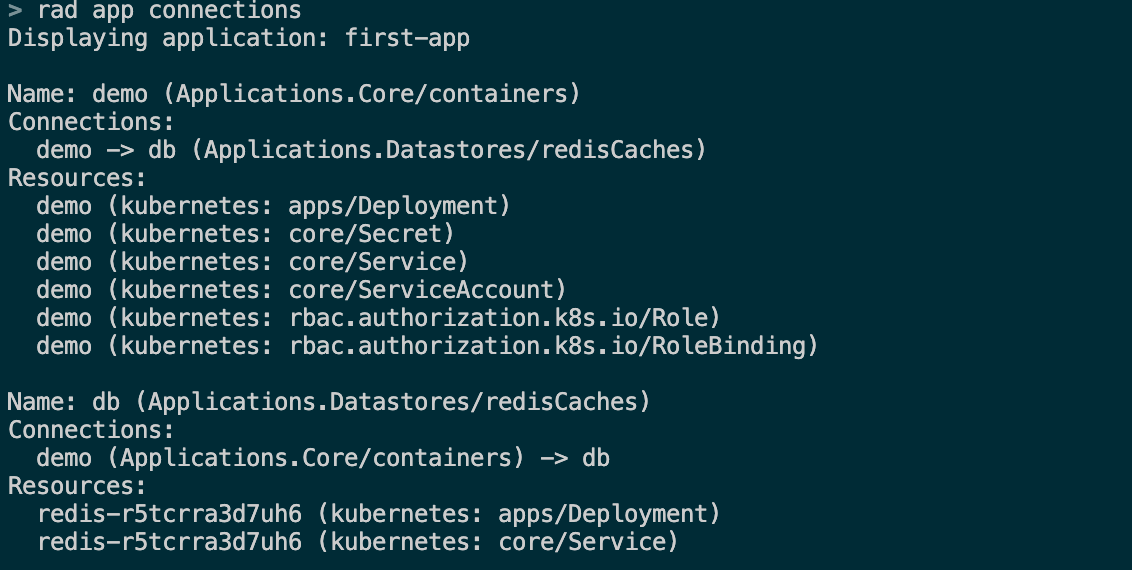
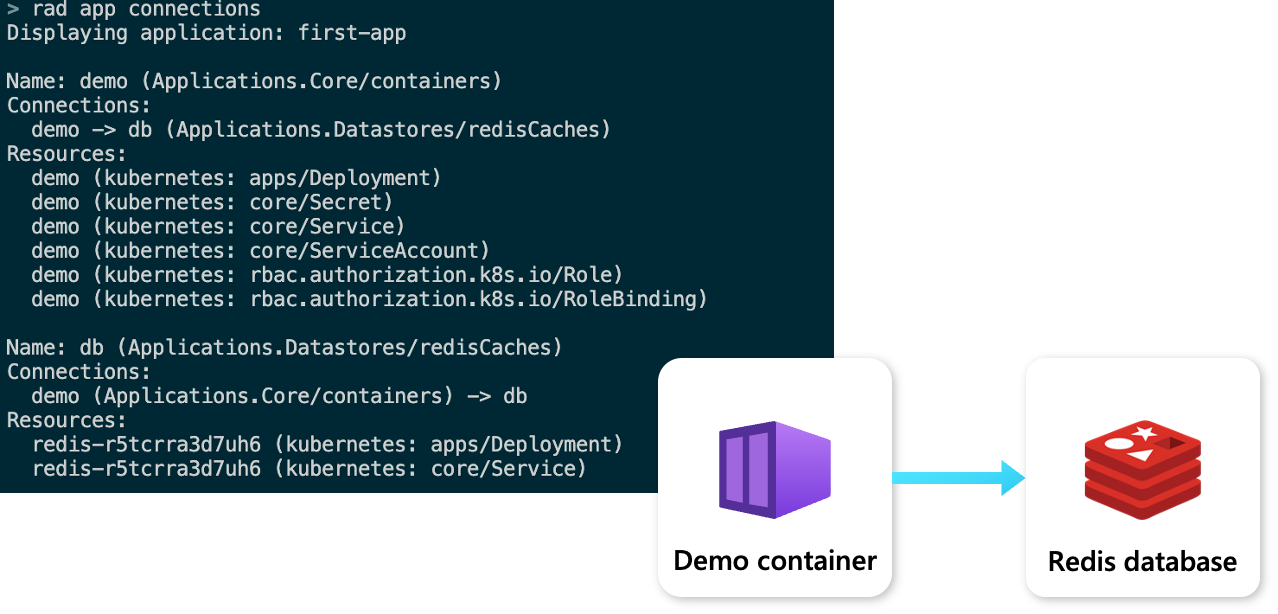
more content

diff --git a/radblog/content/posts/2023/app-graph/index.md b/radblog/content/posts/2023/app-graph/index.md
@@ -10,13 +10,13 @@ In the complex landscape of cloud native architectures today, it can be difficul
 
 ## Application graph data that is inherently part of the development process
 
-With an application structure that includes environments, resource groups, and connections, applications deployed using Radius get represented into a graph-like dataset that reveals precisely how the resources within the application are interconnected. Operator teams that support developers are thus empowered to build visualizations using this graph data that help them intuitively understand what makes up an application. Best of all, this data is generated automatically as part of the development and deployment process with Radius, so it is always up to date without requiring additional effort from developers.
+With an application structure that includes environments, resource groups, and connections, applications deployed using Radius get represented into a graph-like dataset that reveals precisely how the resources within the application are interconnected. Operator teams that support developers are thus empowered to build visualizations using this graph data that help them intuitively understand what makes up an application. Best of all, this data is generated automatically as part of the development process with Radius inherent in the application declarations, so it is always up to date without requiring additional effort from developers.
 
 <img src="app-graph-overview.png" alt="Application graph overview diagram" width="600"/>
 
 ## View application graph relationships with the Radius CLI
 
-TODO
+Using Radius to declare [connections](https://docs.radapp.io/guides/author-apps/containers/overview/#connections) between dependencies to simplify the provisioning and deployment of resources directly results in the documentation of the application. These resource and connection declarations are used by Radius to construct the application graph data. The Radius CLI provides a lightweight `rad app connections` command to view the application and its connections in a terminal window. This provides developers and operators with a way to quickly understand how the application is structured and how its resources are connected while they are building their applications.
 
 <img src="app-graph-connections.png" alt="Screenshot of application graph connections console output" width="600"/>
 
@@ -24,6 +24,6 @@ TODO
 
 Instead of multiple views of logs, infrastructure, and code, Radius provides a single source of truth for your application. The application graph API provides a way to query the application graph data and build visualizations that help you understand how your application is structured and how its resources are connected. Radius provides an HTTP-based API that allow you to communicate with its control plane to query for the application graph data. The API can be hosted inside a Kubernetes cluster or as a standalone set of processes or containers. Visit the [Radius API documentation](https://docs.radapp.io/concepts/api-concept/) pages to learn more.
 
-<img src="app-graph-api.png" alt="Application graph API diagram" width="320" />
+<img src="app-graph-api.png" alt="Application graph API diagram" width="500" />
 
 <img src="app-graph-api-visualization.png" alt="Screenshot of application graph API query with arrow pointing to a visualization diagram" width="600" /> 
